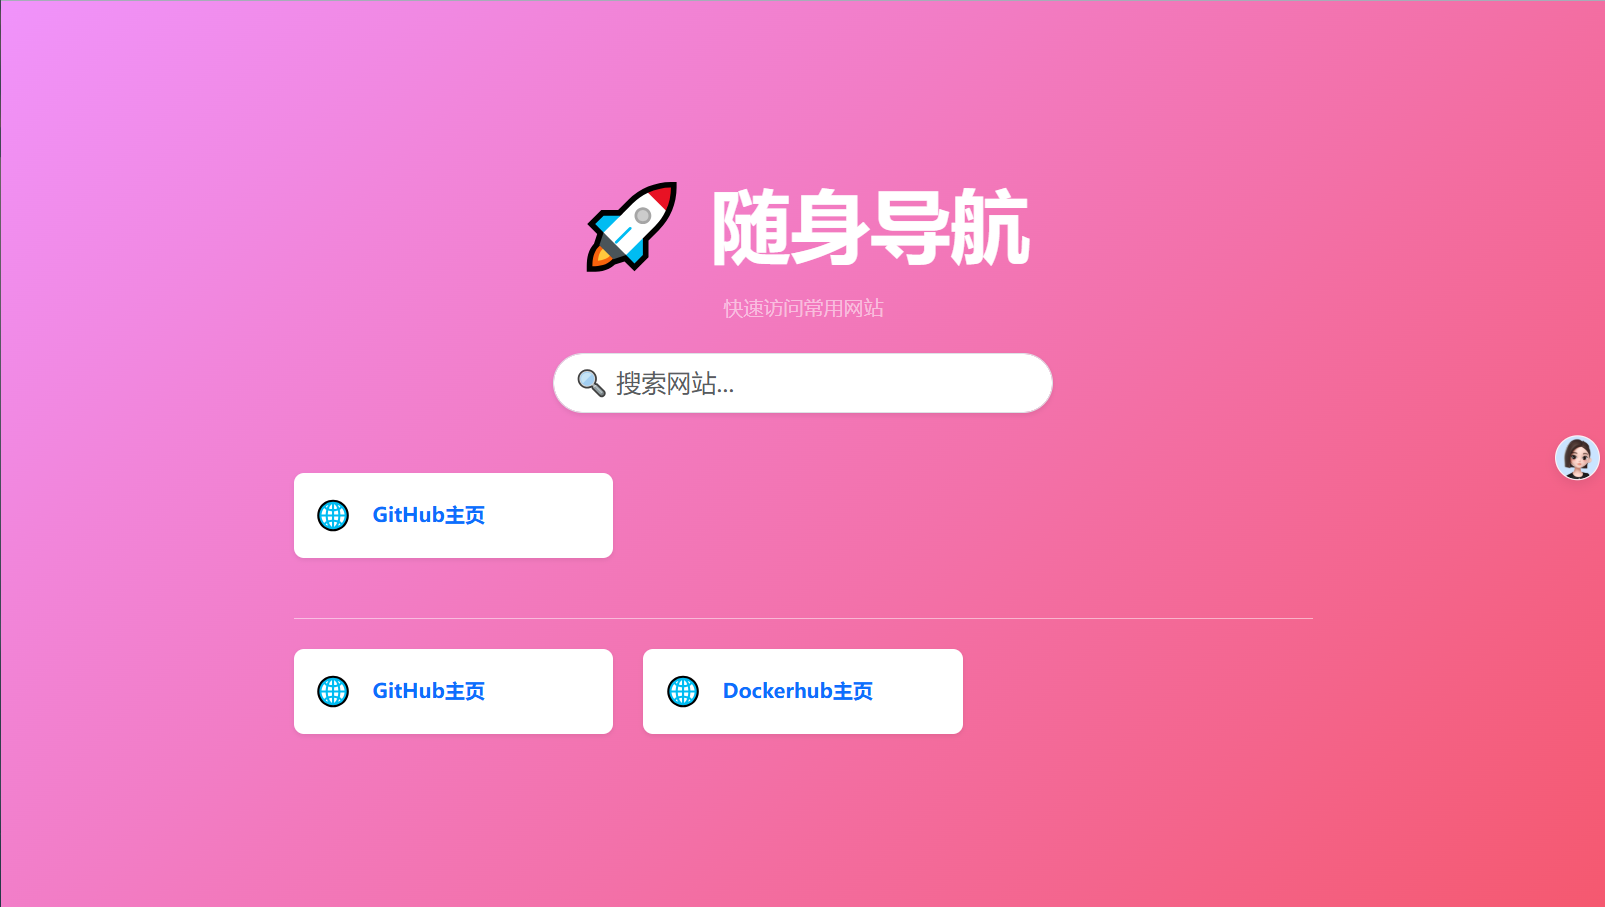
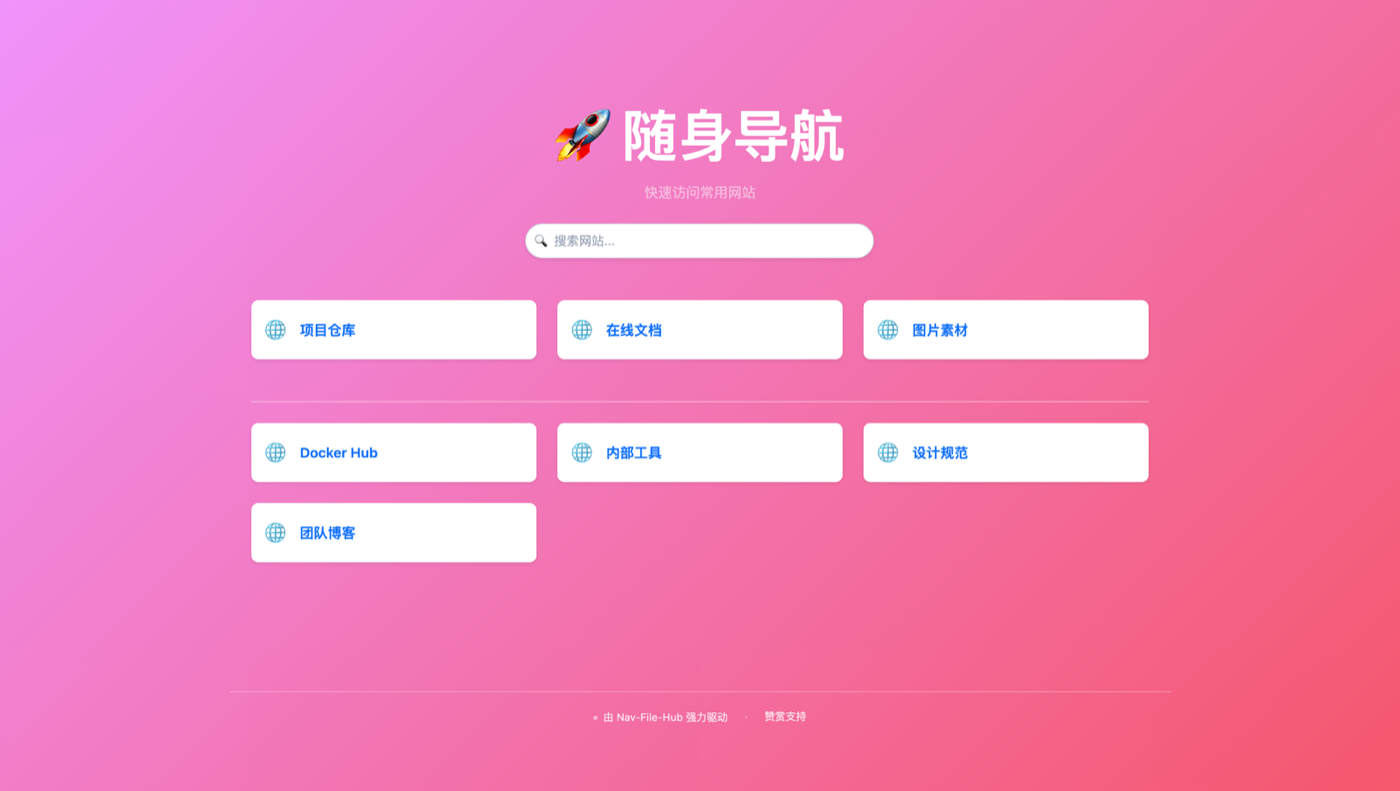
更新导航页截图，README 说明置顶不再重复
截图跟着这次改版走：右上角固定的 GitHub / 赞赏图标撤掉了，
改成底部「由 Nav-File-Hub 强力驱动 · 赞赏支持」；置顶卡片也不再在下面重复出现。

diff --git a/README.md b/README.md
@@ -349,7 +349,7 @@ sites:
 
 | 字段 | 在首页上的效果 |
 | --- | --- |
-| `pin: true` | 置顶到第一区，和其余卡片之间有一条分割线 |
+| `pin: true` | 置顶到第一区，和其余卡片之间有一条分割线（置顶的卡片不会在下面重复出现） |
 | `hide: true` | 首页完全不显示，但 `/{router}/` 照样能访问 |
 
 外链卡片点开是新标签页。
